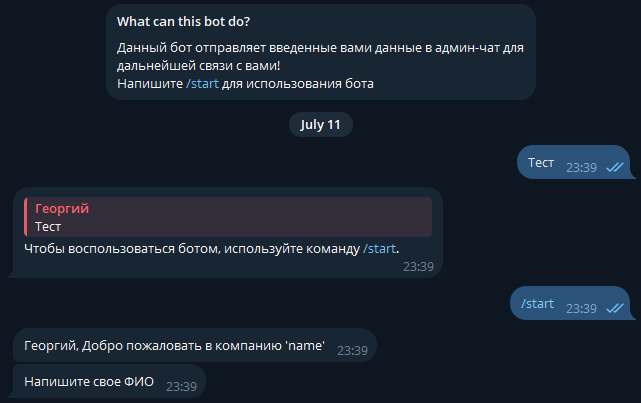
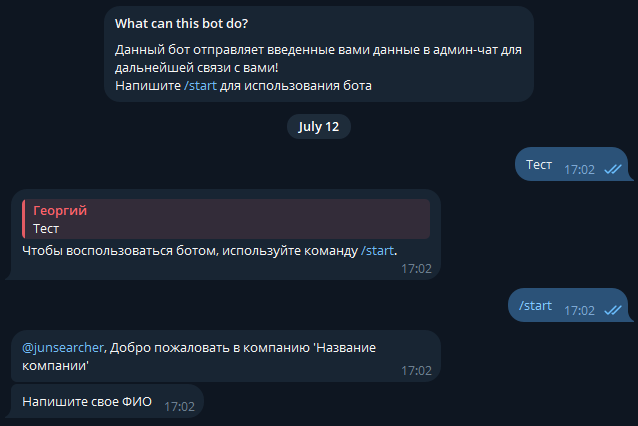
changes

diff --git a/app/handlers.py b/app/handlers.py
@@ -29,7 +29,7 @@ class Register(StatesGroup):
 async def cmd_start(message: Message, state: FSMContext):
     user_id = message.from_user.id
     user_states[user_id] = 'enabled'
-    await message.answer(f"{message.from_user.first_name}, Добро пожаловать в компанию 'name'")
+    await message.answer(f"@{message.from_user.username}, Добро пожаловать в компанию 'Название компании'")
     await state.set_state(Register.name)
     await message.answer('Напишите свое ФИО')
 
